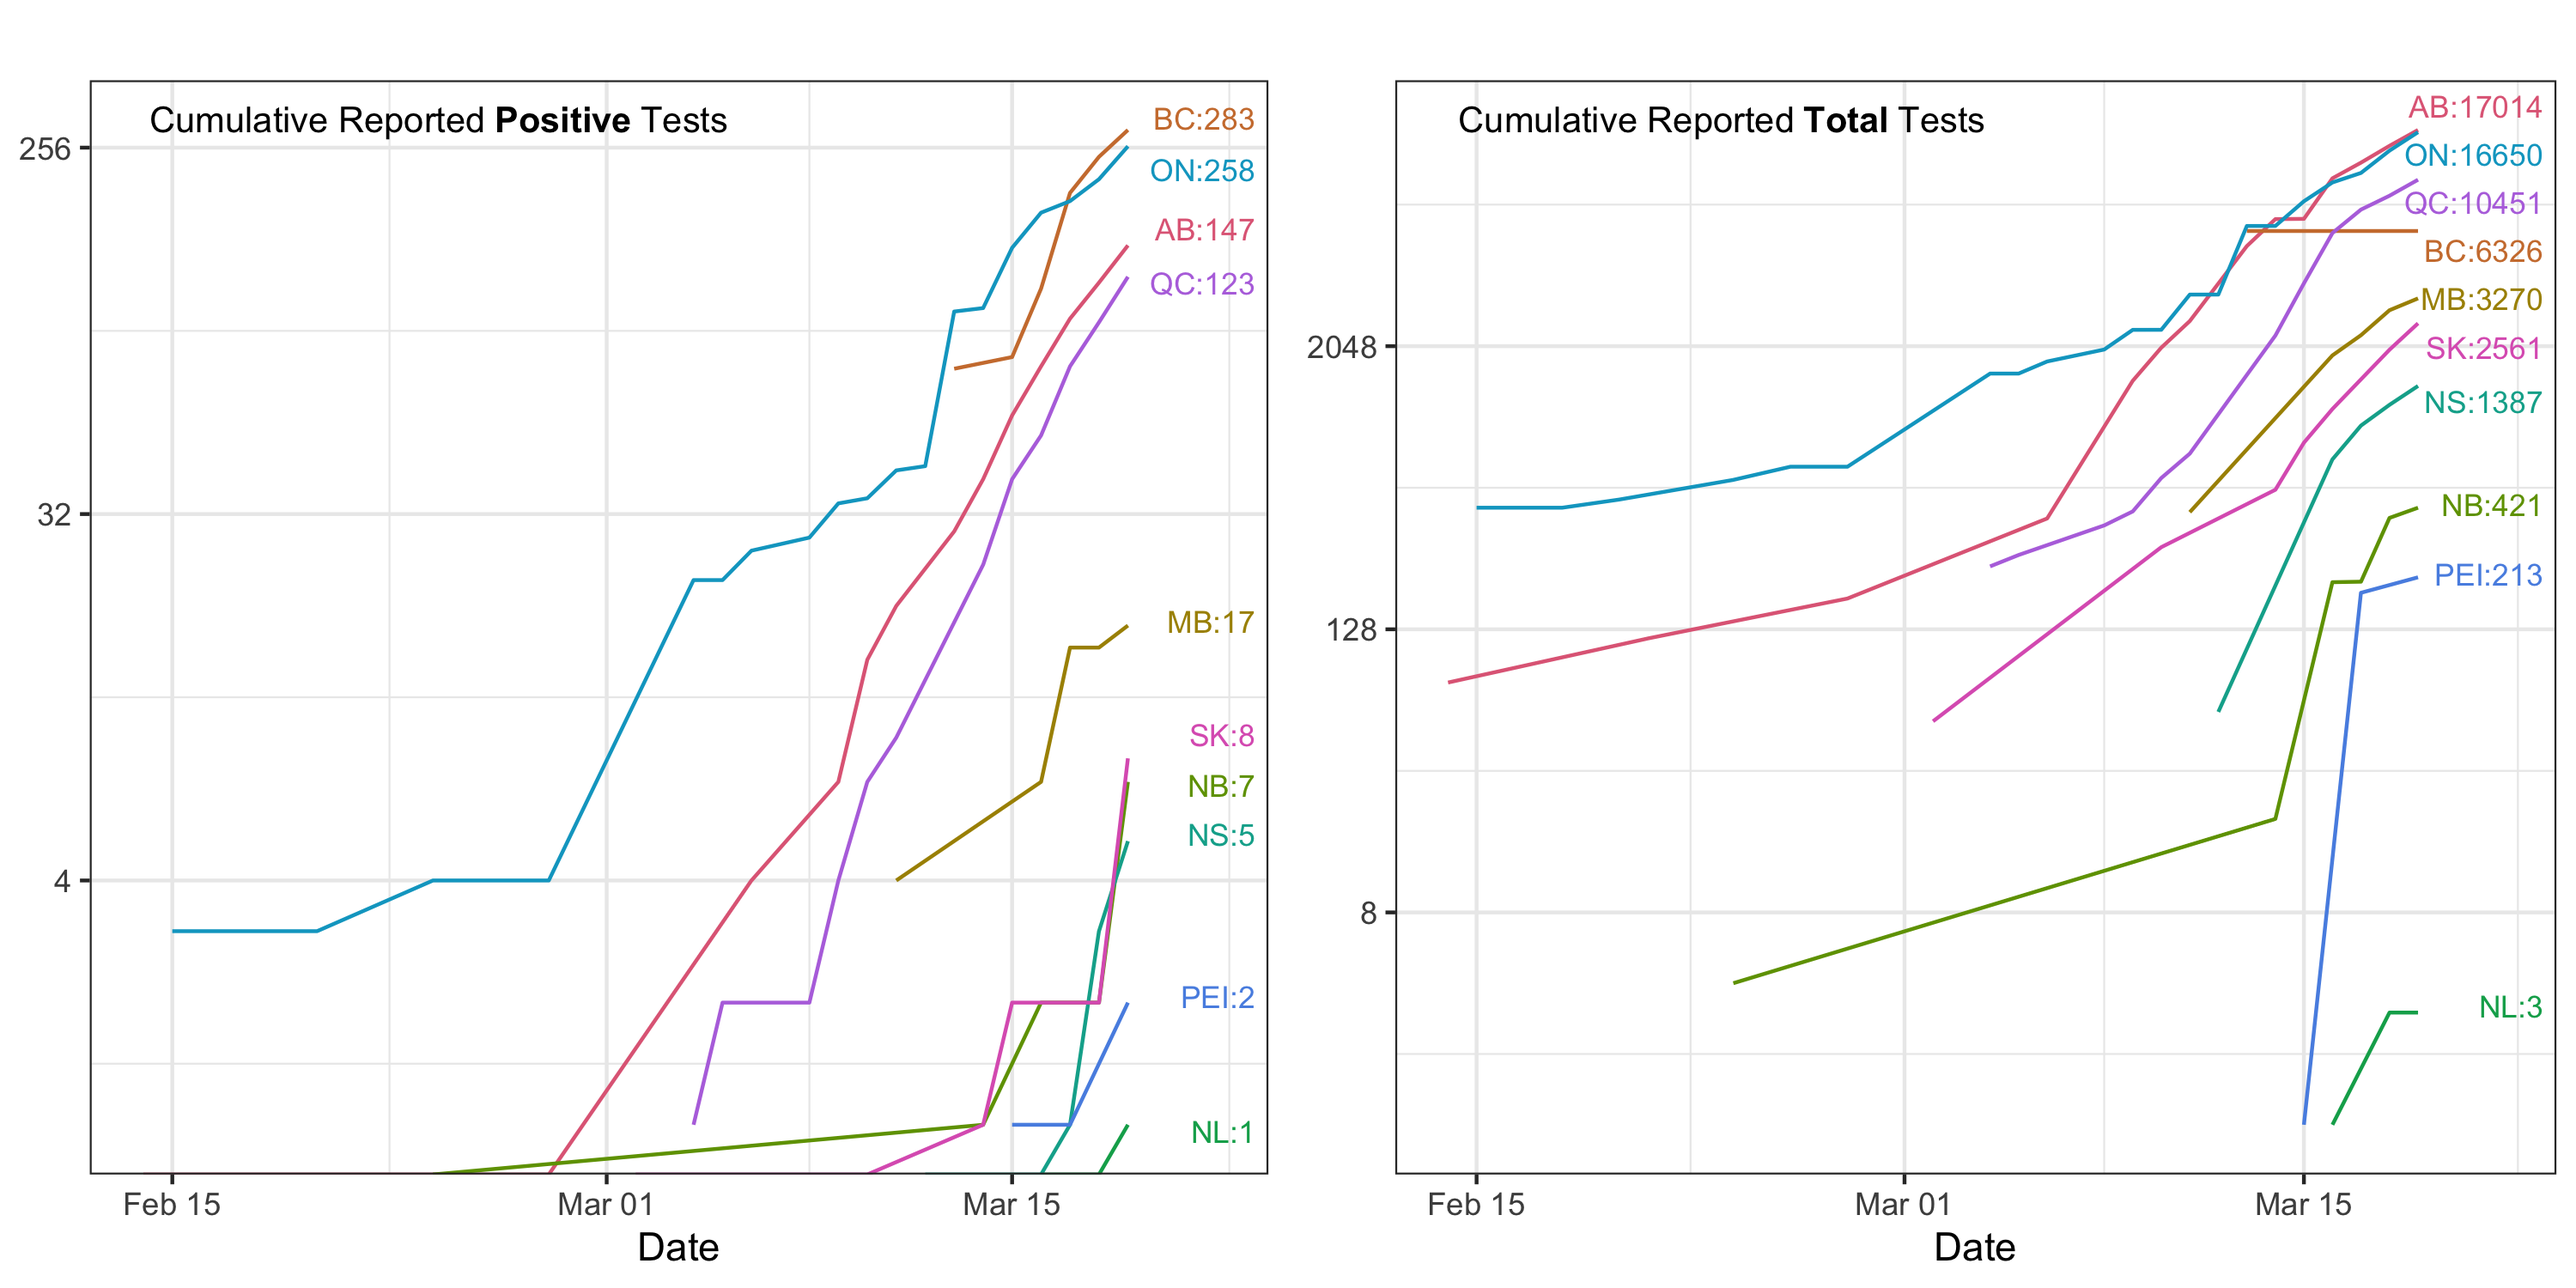
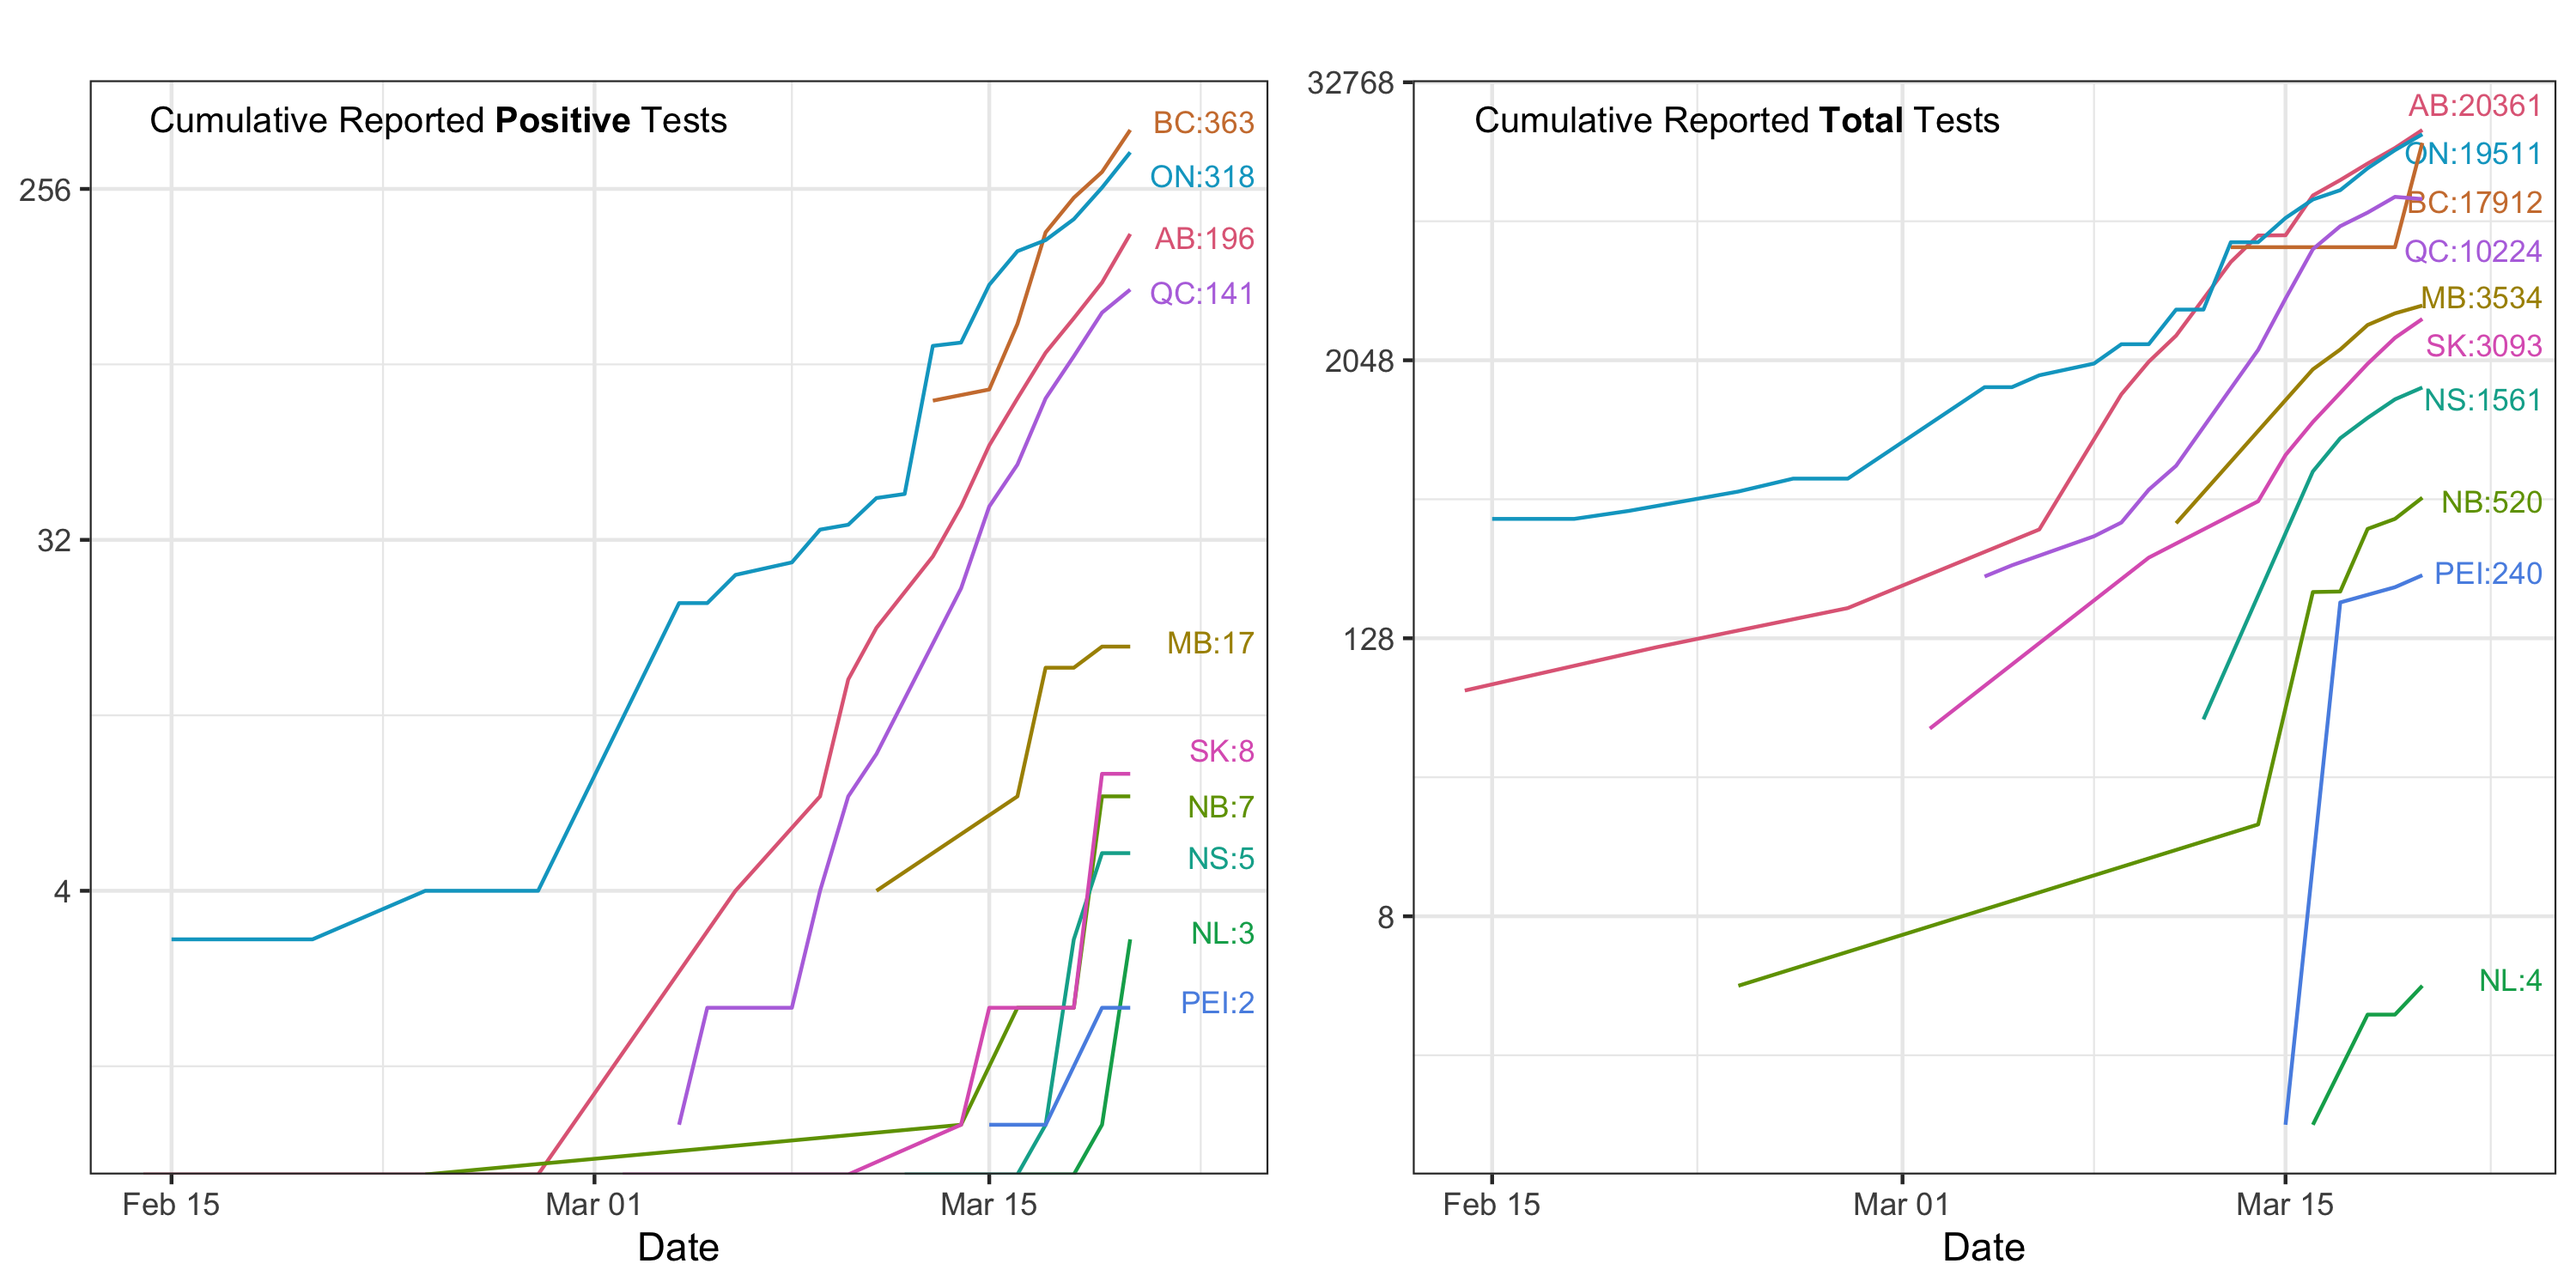
March 20th update

diff --git a/README.md b/README.md
@@ -1,6 +1,6 @@
 This is a public open-resource page for the COVID19 testing data for Canada. 
 
-_last updated: March 19th 22:06 Toronto time_
+_last updated: March 20th 22:46 Toronto time_
 
 ## COVID19 Testing Data
 
